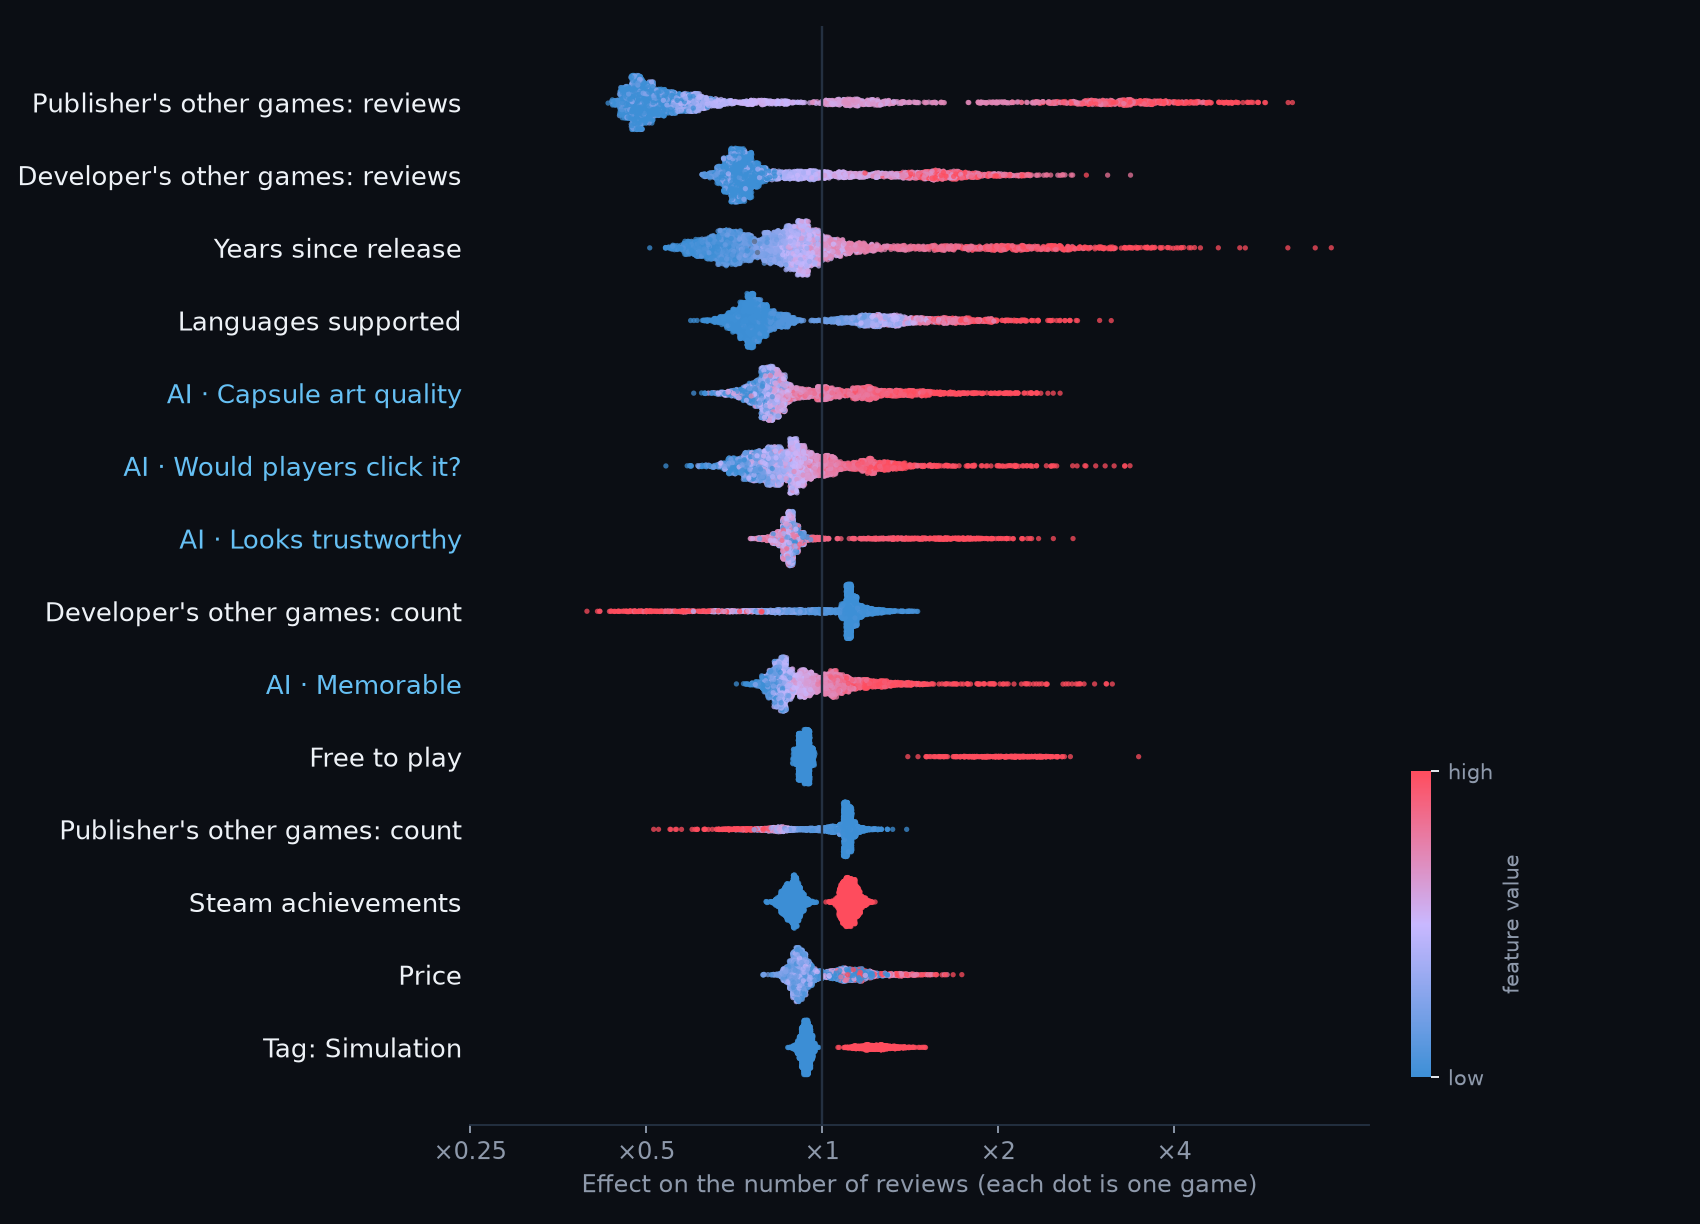
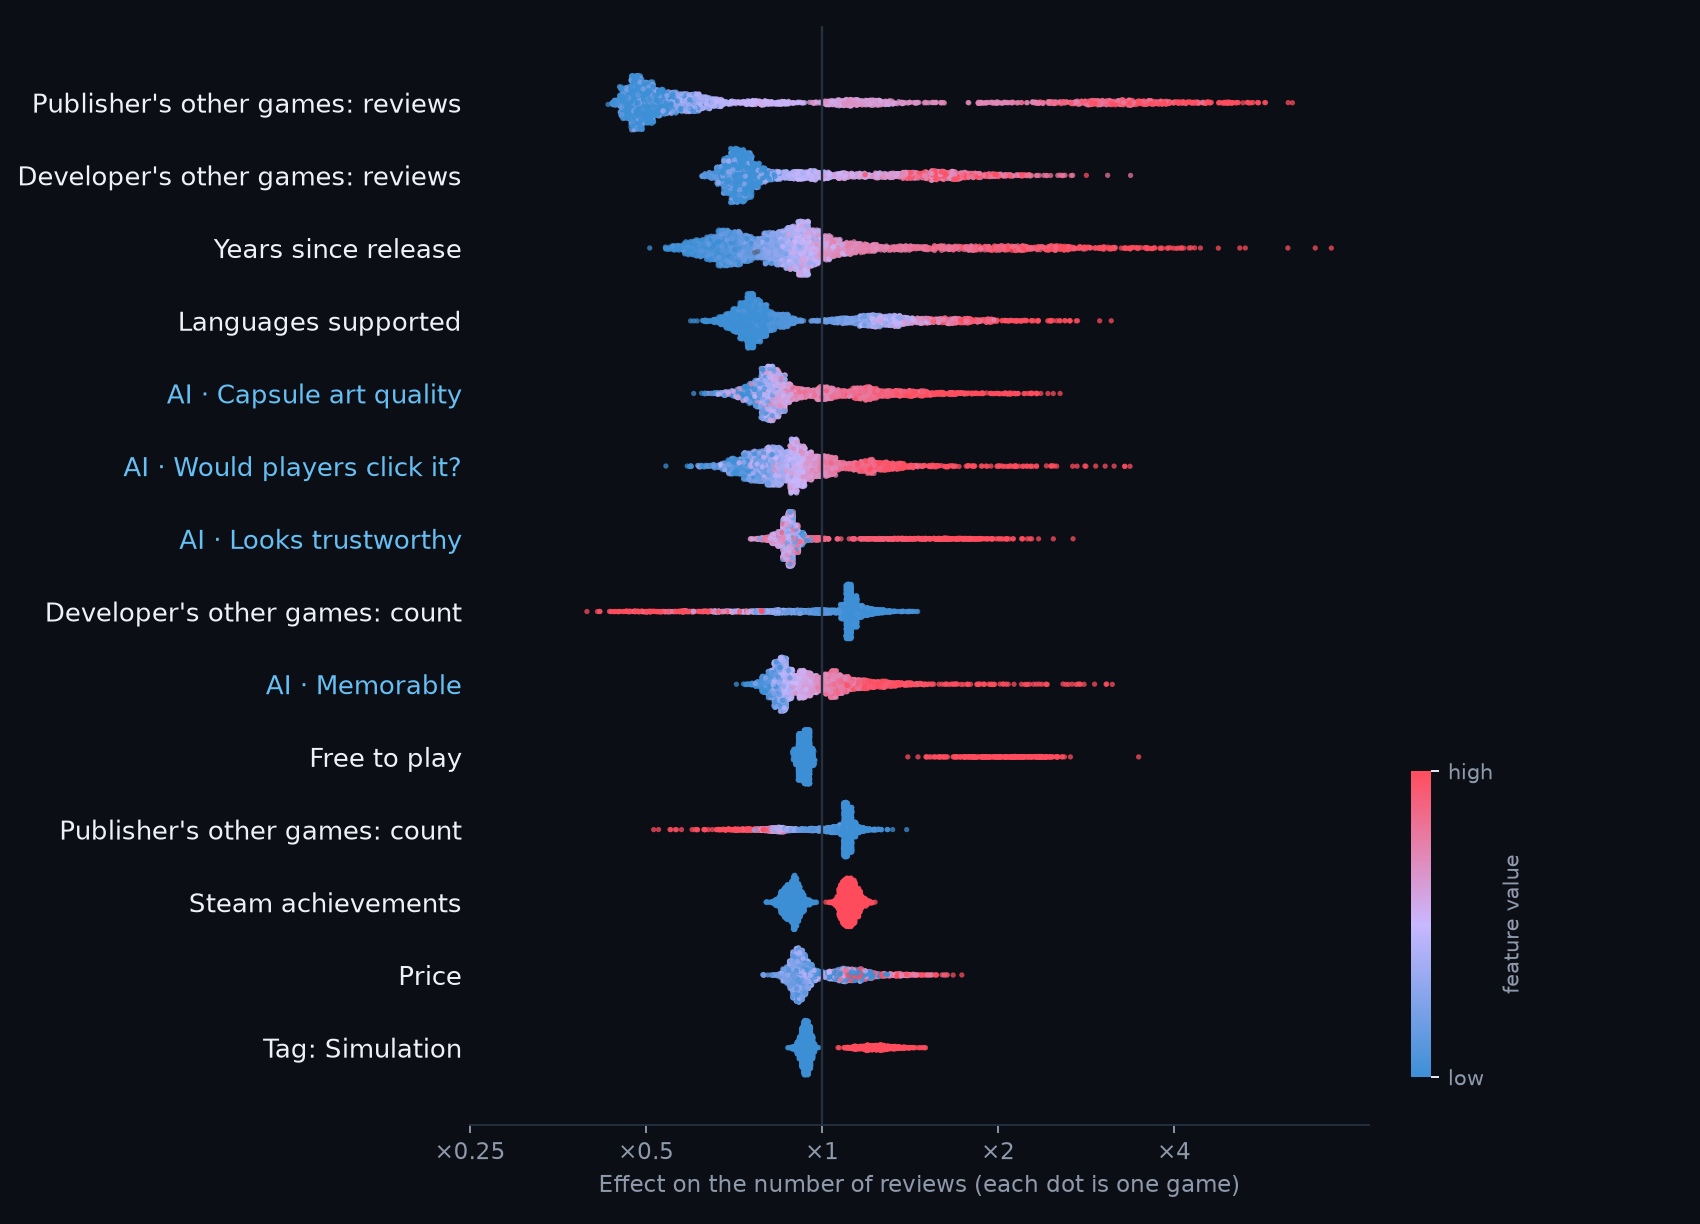
Exclude unreleased games from browse, refresh SHAP chart

diff --git a/index.html b/index.html
@@ -367,8 +367,8 @@ function ladderAndBrowse(G) {
   function render() {
     tabs.querySelectorAll('button[data-i]').forEach(b => b.classList.toggle('on', +b.dataset.i === cur));
     const l = lv[cur];
-    // weighted random sample without replacement (Efraimidis-Spirakis), adult games left out
-    const pool = l.sel.filter(g => !g.adult).map(g => [Math.pow(Math.random(), 1 / g.w), g])
+    // weighted random sample without replacement (Efraimidis-Spirakis); adult and unreleased games left out
+    const pool = l.sel.filter(g => !g.adult && g.y <= 2026).map(g => [Math.pow(Math.random(), 1 / g.w), g])
       .sort((a, b) => b[0] - a[0]).slice(0, 24).map(x => x[1]);
     const n = pool.filter(g => g.r < 10).length;
     document.getElementById('count').innerHTML = `<span class="red">${n} of 24</span> ignored in this draw. Across Steam, ${l.ign.toFixed(0)}% of this level got ignored.`;
